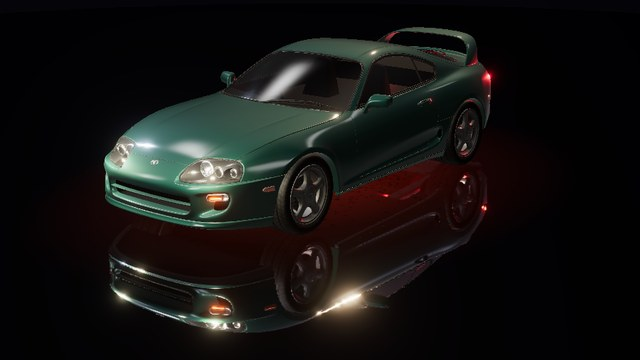
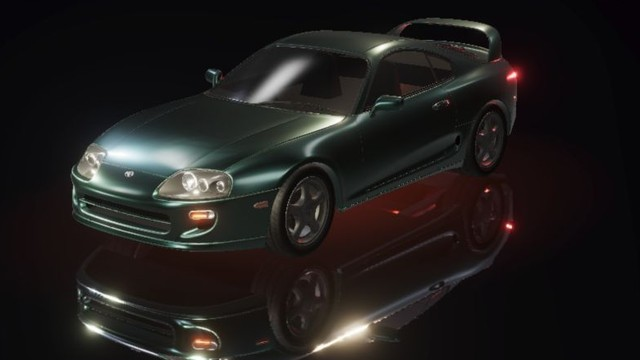
fix: sharpen road car paint reflections

Changed region(s): [[0.0938, 0.0306, 0.8438, 1.0], [0.7188, 0.4889, 0.75, 0.5194]]

diff --git a/src/three/modelPaint.test.ts b/src/three/modelPaint.test.ts
@@ -4,6 +4,7 @@ import * as THREE from 'three';
 import { MeshoptDecoder } from 'three/examples/jsm/libs/meshopt_decoder.module.js';
 import { CARS } from '../config';
 import { autoFitToLength, detectBodyMaterial, hideBakedPlanes } from './carHelpers';
+import { prepareModelFinish } from './modelFinishes';
 
 type Model = {
   bufferViews: {
@@ -31,7 +32,15 @@ type Model = {
   materials: {
     name: string;
     alphaMode?: string;
-    pbrMetallicRoughness?: { baseColorFactor?: number[]; baseColorTexture?: unknown };
+    pbrMetallicRoughness?: {
+      baseColorFactor?: number[];
+      baseColorTexture?: unknown;
+      metallicFactor?: number;
+      roughnessFactor?: number;
+    };
+    extensions?: {
+      KHR_materials_clearcoat?: { clearcoatFactor?: number; clearcoatRoughnessFactor?: number };
+    };
   }[];
   meshes: {
     primitives: { attributes: { POSITION: number }; indices: number; material: number }[];
@@ -56,7 +65,14 @@ async function paintFixture(file: string) {
   const binary = bytes.subarray(28 + jsonLength);
   await MeshoptDecoder.ready;
   const materials = data.materials.map((source) => {
-    const material = new THREE.MeshStandardMaterial();
+    const coat = source.extensions?.KHR_materials_clearcoat;
+    const material = coat ? new THREE.MeshPhysicalMaterial() : new THREE.MeshStandardMaterial();
+    material.metalness = source.pbrMetallicRoughness?.metallicFactor ?? 1;
+    material.roughness = source.pbrMetallicRoughness?.roughnessFactor ?? 1;
+    if (material instanceof THREE.MeshPhysicalMaterial) {
+      material.clearcoat = coat?.clearcoatFactor ?? 0;
+      material.clearcoatRoughness = coat?.clearcoatRoughnessFactor ?? 0;
+    }
     material.name = source.name;
     const factor = source.pbrMetallicRoughness?.baseColorFactor ?? [1, 1, 1, 1];
     material.color.setRGB(factor[0], factor[1], factor[2]);
@@ -162,4 +178,45 @@ it('ships opaque Red Bull tires and outer carbon panels instead of the transpare
   );
   expect(solids.length).toBeGreaterThan(5);
   for (const material of solids) expect(material.alphaMode ?? 'OPAQUE').toBe('OPAQUE');
+});
+
+it.each([
+  ['ferrari-f120-f40.glb', 'Metallic'],
+  ['mercedes-benz-w198-300-sl.glb', 'main_color'],
+  ['datsun-s30-280z.glb', '280z_CarPaint'],
+  ['bmw-e30-m3.glb', 'BMW_E30_M3_PAINT'],
+  ['toyota-a80-supra.glb', 'TOYOTA_SUPRA_CAR_PAINT'],
+  ['mazda-mx5-na.glb', 'Material.002'],
+  ['porsche-930-911-rwb.glb', 'M_Body'],
+  ['bmw-g82-m4-adro.glb', 'untitledBMW_M4CompetitionG82TNR3_2021PaintTNR_Material_008'],
+])('adds gloss only to the real %s paint surface', async (file, materialName) => {
+  const spec = CARS.find((car) => car.file === file)!;
+  const { model, materials } = await paintFixture(file);
+  autoFitToLength(model);
+  hideBakedPlanes(model);
+  const body = detectBodyMaterial(model, spec.paintMaterial) as THREE.MeshStandardMaterial;
+  expect(body.name).toBe(materialName);
+  const before = materials.map((material) => material.toJSON());
+  const color = body.color.clone();
+  const metalness = body.metalness;
+  const roughness = body.roughness;
+  const coatRoughness =
+    body instanceof THREE.MeshPhysicalMaterial && body.clearcoat > 0
+      ? Math.min(body.clearcoatRoughness, 0.06)
+      : 0.06;
+  prepareModelFinish(model, file);
+  const finish = detectBodyMaterial(model, spec.paintMaterial) as THREE.MeshPhysicalMaterial;
+  expect(finish.name).toBe(materialName);
+  expect(finish).toBeInstanceOf(THREE.MeshPhysicalMaterial);
+  expect(finish.roughness).toBeLessThanOrEqual(Math.min(roughness, 0.24));
+  expect(finish.clearcoat).toBe(1);
+  expect(finish.clearcoatRoughness).toBe(coatRoughness);
+  expect(finish.color).toEqual(color);
+  expect(finish.map).toBe(body.map);
+  expect(finish.metalness).toBe(metalness);
+  for (const [index, material] of materials.entries()) {
+    if (material !== body) expect(material.toJSON()).toEqual(before[index]);
+  }
+  prepareModelFinish(model, file);
+  expect(detectBodyMaterial(model, spec.paintMaterial)).toBe(finish);
 });

diff --git a/src/three/modelFinishes.ts b/src/three/modelFinishes.ts
@@ -1,5 +1,16 @@
 import { type Mesh, MeshPhysicalMaterial, MeshStandardMaterial, type Object3D } from 'three';
 
+const roadPaint: Record<string, string> = {
+  'ferrari-f120-f40.glb': 'Metallic',
+  'mercedes-benz-w198-300-sl.glb': 'main_color',
+  'datsun-s30-280z.glb': '280z_CarPaint',
+  'bmw-e30-m3.glb': 'BMW_E30_M3_PAINT',
+  'toyota-a80-supra.glb': 'TOYOTA_SUPRA_CAR_PAINT',
+  'mazda-mx5-na.glb': 'Material.002',
+  'porsche-930-911-rwb.glb': 'M_Body',
+  'bmw-g82-m4-adro.glb': 'untitledBMW_M4CompetitionG82TNR3_2021PaintTNR_Material_008',
+};
+
 function prepareFerrariF1Finish(model: Object3D): void {
   const roughness: Record<string, number> = {
     CAR_CHASSIS: 0.45,
@@ -32,6 +43,7 @@ function prepareGlossPaint(
   materialName: string,
   roughness: number,
   coatRoughness: number,
+  preserveSharper = false,
 ): void {
   const replacements = new Map<MeshStandardMaterial, MeshPhysicalMaterial>();
   model.traverse((object) => {
@@ -45,9 +57,12 @@ function prepareGlossPaint(
       // Copy the standard surface without overwriting the physical material's coat defaults.
       if (finish !== material) MeshStandardMaterial.prototype.copy.call(finish, material);
       finish.defines.PHYSICAL = '';
-      finish.roughness = roughness;
+      finish.roughness = preserveSharper ? Math.min(finish.roughness, roughness) : roughness;
+      finish.clearcoatRoughness =
+        preserveSharper && finish.clearcoat > 0
+          ? Math.min(finish.clearcoatRoughness, coatRoughness)
+          : coatRoughness;
       finish.clearcoat = 1;
-      finish.clearcoatRoughness = coatRoughness;
       finish.needsUpdate = true;
       replacements.set(material, finish);
       return finish;
@@ -62,6 +77,8 @@ function prepareGlossPaint(
 }
 
 export function prepareModelFinish(model: Object3D, file: string): void {
+  if (Object.hasOwn(roadPaint, file))
+    return prepareGlossPaint(model, roadPaint[file], 0.24, 0.06, true);
   if (file === 'ferrari-f1-75.glb') return prepareFerrariF1Finish(model);
   if (file === 'lamborghini-aventador.glb')
     return prepareGlossPaint(model, 'RED_PAINT', 0.23, 0.08);

diff --git a/art/ui-qa/october-23/road-paint-gloss/README.md b/art/ui-qa/october-23/road-paint-gloss/README.md
@@ -1,0 +1,26 @@
+# Road paint gloss review
+
+Reviewed on October 23, 2026 in Chrome using production builds. Baseline commit
+`2a7d090`; all clean comparisons use the same 1440 × 900 viewport, fixed camera,
+curated default paint and dusk lighting.
+
+[Comparisons](comparisons.jpg) pairs equal crops for the Miata, RWB, A80 Supra,
+E30, Datsun 280Z, F40, 300 SL and M4 ADRO. The adjacent `before-` and `after-`
+images retain the full captures. Their picker thumbnails use the revised renders.
+[Phone Miata](phone-miata.jpg) shows the finish at 390 × 844 with night lighting;
+[tablet RWB](tablet-rwb.jpg) checks the normal interface at 768 × 1024.
+
+Each finish targets a verified body material name. Base roughness is capped at
+0.24 with a full clearcoat; sharper authored coats are retained. The existing
+Aventador and R35 profiles keep their settings. The GT3 already has sharp paint;
+F1 racing finishes are unchanged. Colors, metalness, maps, geometry and all source
+GLB files stay intact. Tires, wheels, glass, trim and carbon keep their authored
+materials. The F40 remains red and the Miata keeps its authored pop-up headlights.
+
+Real model tests verify body material discovery after framing, gloss, preservation
+of color, maps and metalness, unchanged surrounding materials, and repeat-safe
+application. Disabling the new finish dispatch fails the new regression cases;
+restoring it passes. License evidence records the runtime adaptation separately
+from source asset optimization.
+
+Physical-device performance and screen-reader audio were not reviewed.

diff --git a/docs/architecture.md b/docs/architecture.md
@@ -68,7 +68,10 @@ before length fitting and grounding. `modelFinishes` keeps the 296's printed liv
 in front of its coplanar shell and corrects its body/glass metalness for the studio
 lighting without changing textures or wheel finishes. The Aventador's named body
 paint receives a physical clearcoat and lower roughness; its color, texture maps,
-wheel and trim materials remain intact. The F1-75 keeps its source racing textures
+wheel and trim materials remain intact. The other road-car finish profiles target verified body material names, cap base
+roughness at 0.24 and add a smooth clearcoat while preserving sharper authored
+coats, colors, metalness and maps. The GT3 already has sharp paint and retains its
+authored finish. The F1-75 keeps its source racing textures
 while correcting metallic paint, decal, carbon and tire responses for studio lighting.
 `popupHeadlights` samples the
 Miata's authored opening clip between its closed and raised poses; its Lights button

diff --git a/docs/model-licenses.md b/docs/model-licenses.md
@@ -216,3 +216,12 @@ Check the original model and any credited upstream sources, not just a free-down
 label or an embedded metadata field. Record the publisher identity and exact
 license URL in the evidence record, update the displayed credits, and preserve
 original copyright notices. Recheck a replacement asset before publishing it.
+
+## Road paint rendering
+
+The F40, 300 SL, Datsun 280Z, E30, A80 Supra, Miata, RWB and M4 ADRO receive a
+runtime gloss adjustment limited to their verified body paint material. Base
+roughness is capped at 0.24 with full clearcoat and coat roughness capped at 0.06;
+sharper authored coats are retained. Colors, metalness, maps, geometry and the
+source GLB files stay intact. Other material finishes retain their authored
+settings. Existing license requirements and attribution continue to apply.
